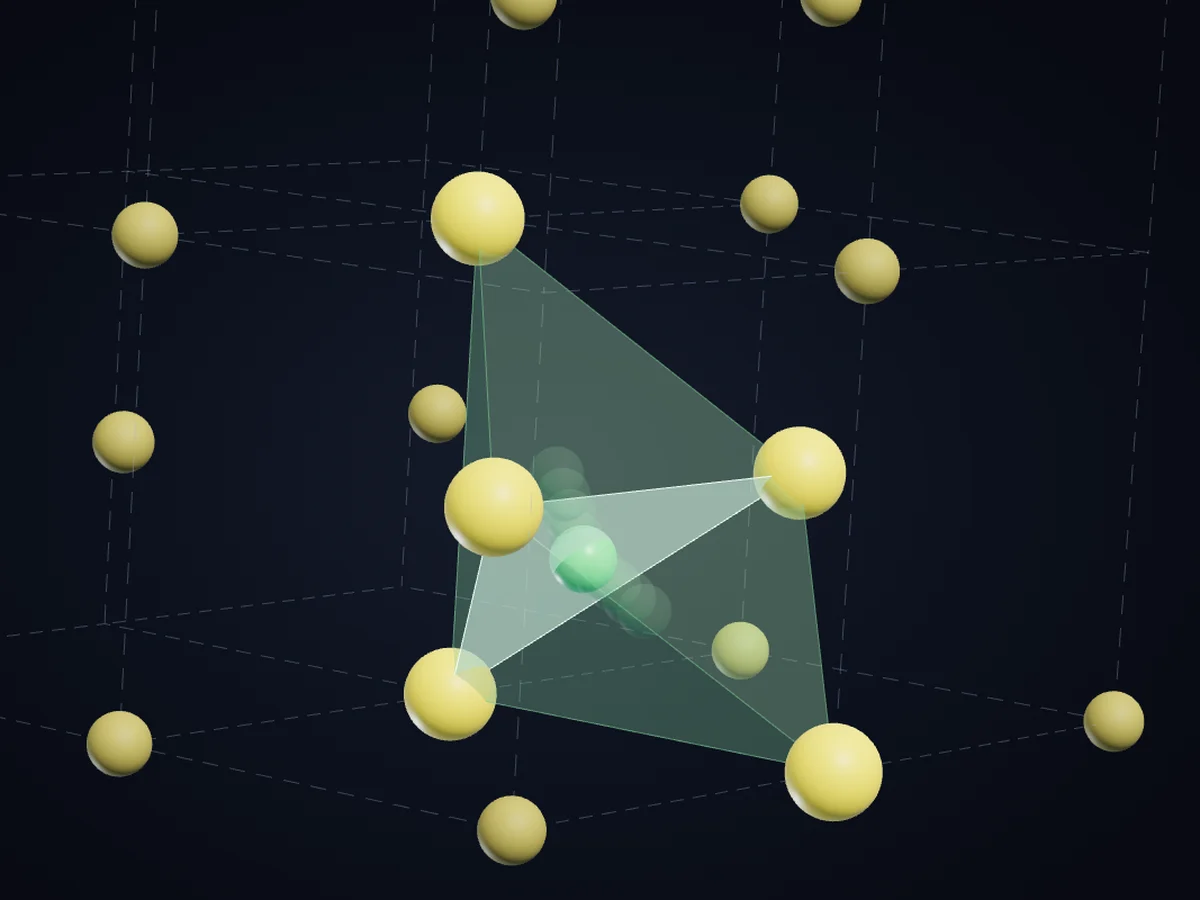
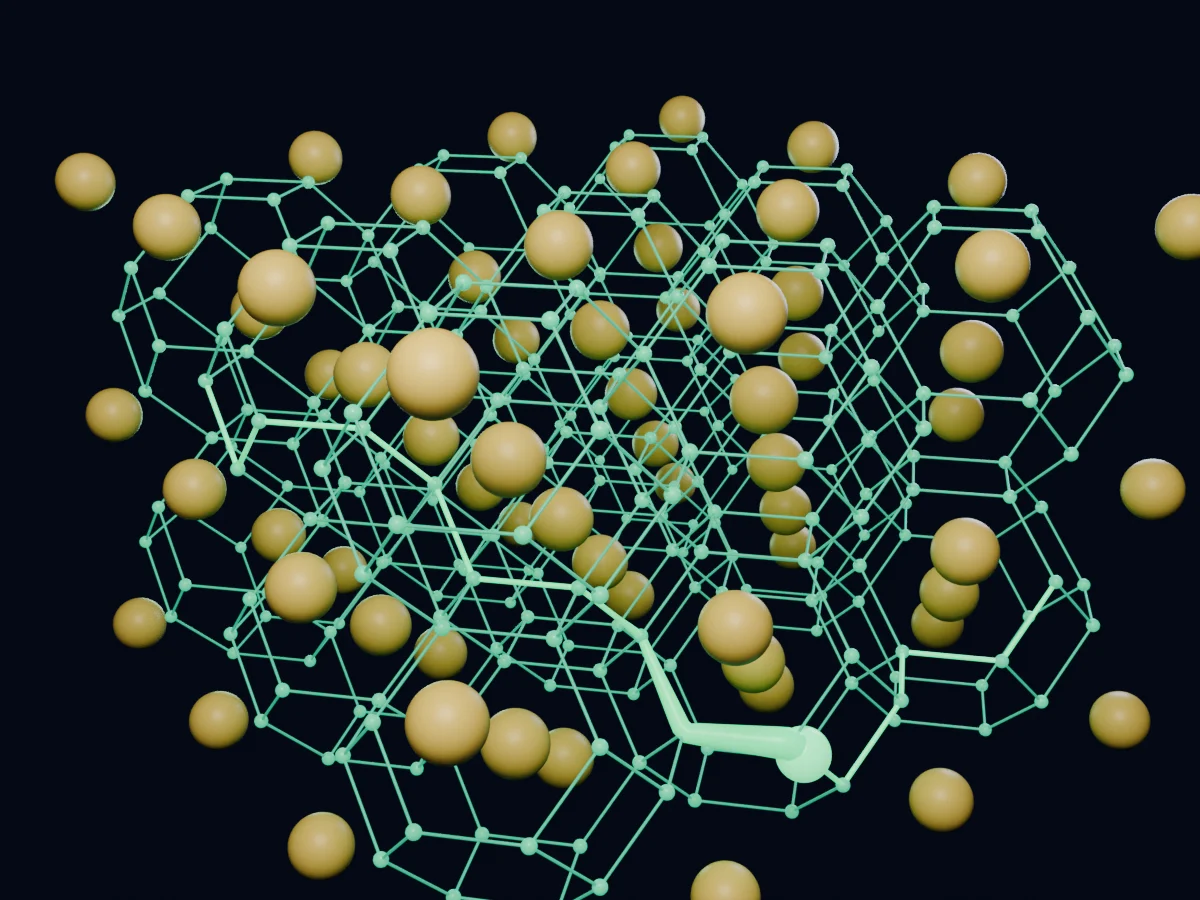
Give the bcc companion card its own look and separate the solid-electrolyte cards
The new card looked too much like "Lithium that moves together" directly
below it. It is now a Blender render of the bcc tetrahedral-site network
with one lithium streaking through it, kicker "Crystal design", and the
silicon nanowire card sits between the two. The card copy column can no
longer overflow its grid cell.

Claude-Session: https://claude.ai/code/session_01KDwobNjK2Qpa4VdtL2Mes2

diff --git a/site/styles.css b/site/styles.css
@@ -1,5 +1,5 @@
 :root{--black:#080a12;--white:#eef1fa;--accent:#7d9cff;--muted:#a3a6af;--sans:Arial,Helvetica,sans-serif;--gutter:clamp(24px,6.5vw,112px)}
-*{box-sizing:border-box}html{scroll-behavior:smooth}body{margin:0;background:var(--black);color:var(--white);font-family:var(--sans);font-size:16px;line-height:1.6;-webkit-font-smoothing:antialiased}h1,h2,h3,p,figure{margin:0}a{color:inherit;text-decoration:none}button{font:inherit;color:inherit;cursor:pointer}button,a,summary{-webkit-tap-highlight-color:transparent}a:focus-visible,button:focus-visible,summary:focus-visible{outline:2px solid #8aa4ff;outline-offset:7px}.skip{position:fixed;top:-100px;left:24px;background:var(--accent);color:var(--black);padding:12px;z-index:10}.skip:focus{top:12px}.site-header{position:absolute;top:0;left:var(--gutter);right:var(--gutter);height:112px;display:flex;justify-content:space-between;align-items:center;z-index:3;border-bottom:1px solid #ffffff25}.brand{font-size:34px;line-height:1;letter-spacing:-2px;font-weight:600}.brand span{font-weight:300}nav{display:flex;gap:36px;font-size:16px}nav a:hover{color:var(--accent)}.eyebrow{font-size:14px;font-weight:400;letter-spacing:.06em;line-height:1.6;color:var(--muted)}.text-link{display:inline-block;background:none;border:0;border-bottom:1px solid currentColor;border-radius:0;padding:0 0 7px;font-size:16px;text-align:left;line-height:1.6}.text-link:hover{color:#a5b8ff}.battery-feature{background:var(--white);color:#171920;padding:95px var(--gutter) 84px;scroll-margin-top:0}.section-intro{max-width:780px}.section-intro .eyebrow{color:#646978;margin-bottom:20px}h2{font-size:clamp(40px,4.7vw,74px);font-weight:400;line-height:1.08;letter-spacing:-.055em}.section-intro>p:last-child:not(.eyebrow){font-size:20px;line-height:1.6;color:#5e6473;margin-top:28px}.battery-figure{margin:56px 0 35px}.battery-figure svg{width:100%;height:auto;display:block;max-height:550px}.diagram-label{font:20px Arial,Helvetica,sans-serif;fill:#3c4355}.battery-figure figcaption{font-size:14px;color:#676c78;text-align:center;margin-top:16px}.feature-end{display:flex;justify-content:space-between;align-items:center;gap:40px;border-top:1px solid #b6bbc8;padding-top:30px}.feature-end p{font-size:20px;line-height:1.5;color:#484f62}.next-topics{padding:99px var(--gutter) 20px}.next-topics .section-intro{margin-bottom:65px}.next-topics .section-intro .eyebrow{color:#99a0b3}.topic-row{display:grid;grid-template-columns:1.22fr 1fr;gap:7%;align-items:center;border-top:1px solid #ffffff25;padding:60px 0}.topic-visual{min-width:0;position:relative;background:#111522}.topic-visual svg{display:block;width:100%;height:auto}.topic-visual figcaption{position:absolute;left:25px;bottom:19px;color:#878c9b;font-size:14px}.topic-copy .eyebrow{color:#969eb5;margin-bottom:22px}.topic-copy h3{font-size:clamp(34px,3.6vw,56px);font-weight:400;letter-spacing:-.05em;line-height:1.12}.topic-copy>p:not(.eyebrow){font-size:18px;line-height:1.6;color:#a1a6b5;margin-top:25px}.topic-copy .text-link{color:var(--accent);margin-top:32px}.plot-label{font:18px var(--fig-font,Arial,sans-serif);fill:#848ca3}.about{padding:100px var(--gutter) 110px;background:#10101c}.about-copy{max-width:750px}.about .eyebrow{margin-bottom:24px}.about-copy>p:not(.eyebrow){font-size:20px;line-height:1.7;color:#a4aab9;margin-top:28px;max-width:610px}.about details{border-top:1px solid #ffffff30;margin-top:40px;padding-top:24px;max-width:610px}.about summary{list-style:none;cursor:pointer;display:flex;justify-content:space-between;font-size:16px}.about summary::-webkit-details-marker{display:none}.about summary span{color:var(--accent);font-size:22px}.about details p{margin-top:20px;color:#a4aab9;font-size:16px;line-height:1.7}footer{display:flex;align-items:center;justify-content:space-between;gap:30px;padding:50px var(--gutter);font-size:14px;color:#979cab}footer .brand{color:var(--white)}dialog{background:var(--white);color:#181c28;border:none;width:min(640px,calc(100% - 40px));padding:55px;max-height:85svh;overflow:auto}dialog::backdrop{background:#000b;backdrop-filter:blur(7px)}.dialog-close{position:absolute;top:15px;right:20px;border:0;background:none;font-size:32px;line-height:1.2;padding:5px 8px}dialog .eyebrow{color:#5e6579}dialog h2{font-size:44px;margin-top:25px}dialog p:not(.eyebrow){font-size:17px;line-height:1.7;margin-top:25px;color:#495063}dialog ul{margin:25px 0 0;padding-left:20px}dialog li{margin-top:10px;color:#495063}dialog .dialog-note{border-top:1px solid #b4b9c5;padding-top:20px;font-size:14px}
+*{box-sizing:border-box}html{scroll-behavior:smooth}body{margin:0;background:var(--black);color:var(--white);font-family:var(--sans);font-size:16px;line-height:1.6;-webkit-font-smoothing:antialiased}h1,h2,h3,p,figure{margin:0}a{color:inherit;text-decoration:none}button{font:inherit;color:inherit;cursor:pointer}button,a,summary{-webkit-tap-highlight-color:transparent}a:focus-visible,button:focus-visible,summary:focus-visible{outline:2px solid #8aa4ff;outline-offset:7px}.skip{position:fixed;top:-100px;left:24px;background:var(--accent);color:var(--black);padding:12px;z-index:10}.skip:focus{top:12px}.site-header{position:absolute;top:0;left:var(--gutter);right:var(--gutter);height:112px;display:flex;justify-content:space-between;align-items:center;z-index:3;border-bottom:1px solid #ffffff25}.brand{font-size:34px;line-height:1;letter-spacing:-2px;font-weight:600}.brand span{font-weight:300}nav{display:flex;gap:36px;font-size:16px}nav a:hover{color:var(--accent)}.eyebrow{font-size:14px;font-weight:400;letter-spacing:.06em;line-height:1.6;color:var(--muted)}.text-link{display:inline-block;background:none;border:0;border-bottom:1px solid currentColor;border-radius:0;padding:0 0 7px;font-size:16px;text-align:left;line-height:1.6}.text-link:hover{color:#a5b8ff}.battery-feature{background:var(--white);color:#171920;padding:95px var(--gutter) 84px;scroll-margin-top:0}.section-intro{max-width:780px}.section-intro .eyebrow{color:#646978;margin-bottom:20px}h2{font-size:clamp(40px,4.7vw,74px);font-weight:400;line-height:1.08;letter-spacing:-.055em}.section-intro>p:last-child:not(.eyebrow){font-size:20px;line-height:1.6;color:#5e6473;margin-top:28px}.battery-figure{margin:56px 0 35px}.battery-figure svg{width:100%;height:auto;display:block;max-height:550px}.diagram-label{font:20px Arial,Helvetica,sans-serif;fill:#3c4355}.battery-figure figcaption{font-size:14px;color:#676c78;text-align:center;margin-top:16px}.feature-end{display:flex;justify-content:space-between;align-items:center;gap:40px;border-top:1px solid #b6bbc8;padding-top:30px}.feature-end p{font-size:20px;line-height:1.5;color:#484f62}.next-topics{padding:99px var(--gutter) 20px}.next-topics .section-intro{margin-bottom:65px}.next-topics .section-intro .eyebrow{color:#99a0b3}.topic-row{display:grid;grid-template-columns:1.22fr 1fr;gap:7%;align-items:center;border-top:1px solid #ffffff25;padding:60px 0}.topic-visual{min-width:0;position:relative;background:#111522}.topic-visual svg{display:block;width:100%;height:auto}.topic-visual figcaption{position:absolute;left:25px;bottom:19px;color:#878c9b;font-size:14px}.topic-copy{min-width:0;overflow-wrap:break-word}.topic-copy .eyebrow{color:#969eb5;margin-bottom:22px}.topic-copy h3{font-size:clamp(34px,3.6vw,56px);font-weight:400;letter-spacing:-.05em;line-height:1.12}.topic-copy>p:not(.eyebrow){font-size:18px;line-height:1.6;color:#a1a6b5;margin-top:25px}.topic-copy .text-link{color:var(--accent);margin-top:32px}.plot-label{font:18px var(--fig-font,Arial,sans-serif);fill:#848ca3}.about{padding:100px var(--gutter) 110px;background:#10101c}.about-copy{max-width:750px}.about .eyebrow{margin-bottom:24px}.about-copy>p:not(.eyebrow){font-size:20px;line-height:1.7;color:#a4aab9;margin-top:28px;max-width:610px}.about details{border-top:1px solid #ffffff30;margin-top:40px;padding-top:24px;max-width:610px}.about summary{list-style:none;cursor:pointer;display:flex;justify-content:space-between;font-size:16px}.about summary::-webkit-details-marker{display:none}.about summary span{color:var(--accent);font-size:22px}.about details p{margin-top:20px;color:#a4aab9;font-size:16px;line-height:1.7}footer{display:flex;align-items:center;justify-content:space-between;gap:30px;padding:50px var(--gutter);font-size:14px;color:#979cab}footer .brand{color:var(--white)}dialog{background:var(--white);color:#181c28;border:none;width:min(640px,calc(100% - 40px));padding:55px;max-height:85svh;overflow:auto}dialog::backdrop{background:#000b;backdrop-filter:blur(7px)}.dialog-close{position:absolute;top:15px;right:20px;border:0;background:none;font-size:32px;line-height:1.2;padding:5px 8px}dialog .eyebrow{color:#5e6579}dialog h2{font-size:44px;margin-top:25px}dialog p:not(.eyebrow){font-size:17px;line-height:1.7;margin-top:25px;color:#495063}dialog ul{margin:25px 0 0;padding-left:20px}dialog li{margin-top:10px;color:#495063}dialog .dialog-note{border-top:1px solid #b4b9c5;padding-top:20px;font-size:14px}
 
 @media(max-width:1000px){.topic-row{gap:6%;grid-template-columns:1fr 1fr}.feature-end p{font-size:18px}.topic-visual figcaption{font-size:12px;left:15px;bottom:12px}.diagram-label{font-size:22px}}
 @media(max-width:700px){.site-header{height:84px}.brand{font-size:30px}nav{font-size:15px;gap:24px}.battery-feature{padding-top:65px;padding-bottom:57px}.section-intro .eyebrow{font-size:12px;max-width:290px}.section-intro>p:last-child:not(.eyebrow){font-size:18px;margin-top:22px}h2{font-size:44px}.battery-figure{margin:42px -10px 27px}.battery-figure figcaption{font-size:12px;margin-top:10px}.diagram-label{font-size:27px}.feature-end{display:block;padding-top:25px}.feature-end p{font-size:18px}.feature-end .text-link{margin-top:25px}.next-topics{padding-top:65px}.next-topics .section-intro{margin-bottom:42px}.topic-row{display:block;padding:38px 0 45px}.topic-visual{margin-bottom:32px}.topic-visual figcaption{font-size:12px}.topic-copy .eyebrow{font-size:12px;margin-bottom:16px}.topic-copy h3{font-size:38px}.topic-copy>p:not(.eyebrow){font-size:18px;margin-top:18px}.topic-copy .text-link{margin-top:24px}.about{padding-top:65px;padding-bottom:65px}.about .eyebrow{font-size:12px}.about h2{font-size:43px}.about-copy>p:not(.eyebrow){font-size:18px;margin-top:25px}.about details{margin-top:30px}footer{flex-wrap:wrap;padding-top:36px;padding-bottom:36px;gap:25px}footer p{width:calc(100% - 110px);max-width:220px}footer>a:last-child{width:100%}dialog{padding:42px 28px}dialog h2{font-size:34px}}

diff --git a/site/index.html b/site/index.html
@@ -35,16 +35,16 @@
 <section class="next-topics" aria-labelledby="next-title">
 <div class="section-intro"><p class="eyebrow">BROWSE THE COLLECTION</p><h2 id="next-title">More visualizations.<br>More to explore.</h2></div>
 <article class="topic-row">
-<figure class="topic-visual anion-visual"><a href="anion-framework.html" aria-label="Explore Why some crystals let lithium fly" style="display:block;view-transition-name:anion-scene"><img src="assets/anion-framework/collection.webp" loading="lazy" decoding="async" width="1200" height="900" style="display:block;width:100%;height:auto" alt="A green lithium ion passing through the shared triangular face between two tetrahedral sites in a body-centred cubic lattice of yellow sulfur ions, rendered from the explorer’s model."></a></figure>
-<div class="topic-copy"><p class="eyebrow">PAPER COMPANION · SOLID ELECTROLYTES</p><h3>Why some crystals<br>let lithium fly</h3><p>See how the way sulfur packs decides whether lithium glides or has to squeeze.</p><a class="text-link" href="anion-framework.html">Explore the visualization</a></div>
-</article>
-<article class="topic-row">
-<figure class="topic-visual fast-ion-visual"><a href="fast-ion-diffusion.html" aria-label="Explore Lithium that moves together" style="display:block;view-transition-name:fast-ion-scene"><img src="assets/fast-ion-diffusion/collection.webp" loading="lazy" decoding="async" width="1200" height="900" style="display:block;width:100%;height:auto" alt="Five green lithium ions part-way through one collective hop along a chain of translucent oxygen cages in the garnet LLZO, rendered from the explorer’s model."></a></figure>
-<div class="topic-copy"><p class="eyebrow">PAPER COMPANION · SOLID ELECTROLYTES</p><h3>Lithium that<br>moves together</h3><p>See why five ions hopping at once face a lower barrier than one ion alone.</p><a class="text-link" href="fast-ion-diffusion.html">Explore the visualization</a></div>
+<figure class="topic-visual anion-visual"><a href="anion-framework.html" aria-label="Explore Why some crystals let lithium fly" style="display:block;view-transition-name:anion-scene"><img src="assets/anion-framework/collection.webp" loading="lazy" decoding="async" width="1200" height="900" style="display:block;width:100%;height:auto" alt="The web of linked tetrahedral sites inside a body-centred cubic sulfur lattice, with one lithium ion streaking along a path of face-sharing hops."></a></figure>
+<div class="topic-copy"><p class="eyebrow">PAPER COMPANION · CRYSTAL DESIGN</p><h3>Why some crystals<br>let lithium fly</h3><p>See how the way sulfur packs decides whether lithium glides or has to squeeze.</p><a class="text-link" href="anion-framework.html">Explore the visualization</a></div>
 </article>
 <article class="topic-row">
 <figure class="topic-visual silicon-visual"><a href="silicon-nanowire.html" aria-label="Explore How silicon breaks from within" style="display:block;view-transition-name:silicon-scene"><img src="assets/silicon-nanowire/collection.webp" loading="lazy" decoding="async" width="1200" height="900" style="display:block;width:100%;height:auto" alt="A swelling silicon nanowire cut open to reveal its tapered crystalline core, rendered from the explorer’s geometry."></a></figure>
 <div class="topic-copy"><p class="eyebrow">PAPER COMPANION · SILICON ANODES</p><h3>How silicon<br>breaks from within</h3><p>Follow a reaction front into the changing shape and stress inside a nanowire.</p><a class="text-link" href="silicon-nanowire.html">Explore the visualization</a></div>
+</article>
+<article class="topic-row">
+<figure class="topic-visual fast-ion-visual"><a href="fast-ion-diffusion.html" aria-label="Explore Lithium that moves together" style="display:block;view-transition-name:fast-ion-scene"><img src="assets/fast-ion-diffusion/collection.webp" loading="lazy" decoding="async" width="1200" height="900" style="display:block;width:100%;height:auto" alt="Five green lithium ions part-way through one collective hop along a chain of translucent oxygen cages in the garnet LLZO, rendered from the explorer’s model."></a></figure>
+<div class="topic-copy"><p class="eyebrow">PAPER COMPANION · SOLID ELECTROLYTES</p><h3>Lithium that<br>moves together</h3><p>See why five ions hopping at once face a lower barrier than one ion alone.</p><a class="text-link" href="fast-ion-diffusion.html">Explore the visualization</a></div>
 </article>
 <article class="topic-row">
 <figure class="topic-visual interwoven-visual"><a href="self-separating-battery.html" aria-label="Explore An interwoven battery" style="display:block;view-transition-name:interwoven-scene"><img src="assets/self-separating-battery/collection.webp" loading="lazy" decoding="async" width="1200" height="900" style="display:block;width:100%;height:auto" alt="A porous carbon volume with a blue cathode network and a thin warm-toned separating interphase, rendered from the explorer geometry."></a></figure>

diff --git a/blender/anion-framework/card.py b/blender/anion-framework/card.py
@@ -1,0 +1,164 @@
+# Homepage card for "Why some crystals let lithium fly" (Wang et al. 2015).
+# The bcc sulfur lattice with its tetrahedral-site network drawn as a lit web, and one lithium ion streaking through
+# it hop by hop: the picture is the paper's point, a percolating network of identical sites.
+# Run: python3.11 blender/anion-framework/card.py out.png [samples]   (pip install bpy; Cycles on CPU)
+import sys, math, itertools, collections
+import bpy
+from mathutils import Vector
+
+OUT = sys.argv[1] if len(sys.argv) > 1 else 'card.png'
+SAMPLES = int(sys.argv[2]) if len(sys.argv) > 2 else 96
+A = 40.0 ** (1 / 3) * 2 ** (1 / 3)          # bcc cell edge at 40 Å³ per sulfur (2 S per cell): 4.309 Å
+N = (3, 3, 2)                                # cells along a, b, c
+
+# ---- lattice -------------------------------------------------------------------------------------------------
+sulfur = set()
+for i, j, k in itertools.product(range(N[0] + 1), range(N[1] + 1), range(N[2] + 1)):
+    sulfur.add((i, j, k))
+    if i < N[0] and j < N[1] and k < N[2]:
+        sulfur.add((i + .5, j + .5, k + .5))
+# Tetrahedral sites: four on each cube face, at (0, 1/2, 1/4) and its equivalents.
+tsites = set()
+quarter = [(.5, .25), (.5, .75), (.25, .5), (.75, .5)]
+for i, j, k in itertools.product(range(N[0] + 1), range(N[1] + 1), range(N[2] + 1)):
+    for u, v in quarter:
+        for p in ((i, j + u, k + v), (i + u, j, k + v), (i + u, j + v, k)):
+            if all(0 <= p[d] <= N[d] for d in range(3)):
+                tsites.add(tuple(round(x, 3) for x in p))
+T = [Vector(p) * A for p in sorted(tsites)]
+S = [Vector(p) * A for p in sorted(sulfur)]
+dTT = A * math.sqrt(2) / 4                   # face-sharing T–T distance, 1.52 Å
+links = [(i, j) for i, j in itertools.combinations(range(len(T)), 2) if abs((T[i] - T[j]).length - dTT) < .05]
+
+# A long route through the network: the farthest pair by hops, found with BFS from one corner site.
+adj = collections.defaultdict(list)
+for i, j in links:
+    adj[i].append(j); adj[j].append(i)
+def bfs(src):
+    prev = {src: None}; q = collections.deque([src])
+    while q:
+        n = q.popleft()
+        for m in adj[n]:
+            if m not in prev:
+                prev[m] = n; q.append(m)
+    return prev
+CENTRE = Vector((N[0] * A / 2, N[1] * A / 2, N[2] * A / 2))
+VIEW = Vector((-0.52, -0.78, 0.36)).normalized()          # from the block towards the camera
+RIGHT = VIEW.cross(Vector((0, 0, 1))).normalized() * -1; UP = RIGHT.cross(VIEW) * -1
+near = lambda n: (T[n] - CENTRE).dot(VIEW)
+front = [n for n in range(len(T)) if near(n) > 2.0]
+start = min(front, key=lambda n: (T[n] - CENTRE).dot(RIGHT) * 1.0 - (T[n] - CENTRE).dot(UP) * 0.6)
+prev = bfs(start)
+end = max(front, key=lambda n: (T[n] - CENTRE).dot(RIGHT) - (T[n] - CENTRE).dot(UP) * 0.3)
+route = []
+n = end
+while n is not None:
+    route.append(n); n = prev[n]
+route.reverse()
+
+# ---- scene ---------------------------------------------------------------------------------------------------
+bpy.ops.wm.read_factory_settings(use_empty=True)
+sc = bpy.context.scene
+sc.render.engine = 'CYCLES'; sc.cycles.device = 'CPU'; sc.cycles.samples = SAMPLES; sc.cycles.use_denoising = True
+sc.render.resolution_x, sc.render.resolution_y = 1200, 900
+import os; sc.render.resolution_percentage = int(os.environ.get('PCT', 100))
+sc.render.film_transparent = False
+sc.view_settings.view_transform = 'AgX'; sc.view_settings.look = 'AgX - Medium High Contrast'
+world = bpy.data.worlds.new('w'); sc.world = world; world.use_nodes = True
+bg = world.node_tree.nodes['Background']; bg.inputs[0].default_value = (0.006, 0.008, 0.018, 1); bg.inputs[1].default_value = 1
+
+def material(name, base, rough=.35, emit=None, strength=0.0, alpha=1.0):
+    m = bpy.data.materials.new(name); m.use_nodes = True
+    b = m.node_tree.nodes['Principled BSDF']
+    b.inputs['Base Color'].default_value = (*base, 1); b.inputs['Roughness'].default_value = rough
+    if emit:
+        b.inputs['Emission Color'].default_value = (*emit, 1); b.inputs['Emission Strength'].default_value = strength
+    if alpha < 1:
+        b.inputs['Alpha'].default_value = alpha
+    return m
+
+m_s = material('sulfur', (0.85, 0.66, 0.16), rough=.42)
+m_t = material('tsite', (0.08, 0.55, 0.32), rough=.3, emit=(0.05, 0.9, 0.45), strength=0.6)
+m_link = material('link', (0.05, 0.4, 0.26), rough=.45, emit=(0.05, 0.85, 0.45), strength=0.45)
+m_route = material('route', (0.1, 0.85, 0.4), rough=.3, emit=(0.05, 1.0, 0.35), strength=1.0)
+
+_meshes = {}
+def _template(kind, seg):
+    key = (kind, seg)
+    if key not in _meshes:
+        if kind == 'sphere':
+            bpy.ops.mesh.primitive_uv_sphere_add(radius=1, segments=seg, ring_count=seg // 2)
+        else:
+            bpy.ops.mesh.primitive_cylinder_add(radius=1, depth=1, vertices=seg)
+        o = bpy.context.object; bpy.ops.object.shade_smooth(); _meshes[key] = o.data; bpy.data.objects.remove(o)
+    return _meshes[key]
+# Linked duplicates of one mesh per shape: thousands of objects without thousands of meshes.
+def place(kind, seg, mat, loc, scale, rot=None):
+    o = bpy.data.objects.new(kind, _template(kind, seg)); o.location = loc; o.scale = scale
+    o.material_slots and None
+    o.active_material = None
+    if rot is not None:
+        o.rotation_mode = 'QUATERNION'; o.rotation_quaternion = rot
+    o.data.materials.clear() if False else None
+    sc.collection.objects.link(o); o.material_slots  # ensure slots
+    if not o.data.materials:
+        o.data.materials.append(None)
+    o.material_slots[0].link = 'OBJECT'; o.material_slots[0].material = mat
+    return o
+def sphere(p, r, mat, seg=48):
+    return place('sphere', seg, mat, p, (r, r, r))
+def rod(a, b, r, mat):
+    d = b - a
+    return place('rod', 12, mat, (a + b) / 2, (r, r, d.length), Vector((0, 0, 1)).rotation_difference(d))
+
+# Blender is z-up: crystal c goes to z.
+for p in S: sphere(p, 0.5, m_s)
+for p in T: sphere(p, 0.11, m_t, seg=16)
+on_route = {tuple(sorted(e)) for e in zip(route, route[1:])}
+for i, j in links:
+    if tuple(sorted((i, j))) not in on_route:
+        rod(T[i], T[j], 0.022, m_link)
+for i, j in zip(route, route[1:]):
+    rod(T[i], T[j], 0.04, m_route)
+
+# The lithium ion two-thirds along the route, with a fading comet of earlier positions behind it.
+pts = [T[n] for n in route]
+lens = [0] + list(itertools.accumulate((b - a).length for a, b in zip(pts, pts[1:])))
+def along(s):
+    s = max(0, min(lens[-1], s))
+    for k in range(len(pts) - 1):
+        if lens[k + 1] >= s:
+            u = (s - lens[k]) / max(1e-6, lens[k + 1] - lens[k]); return pts[k].lerp(pts[k + 1], u)
+    return pts[-1]
+head = lens[-1] * 0.66
+li = sphere(along(head), 0.4, material('li', (0.2, 0.9, 0.45), rough=.18, emit=(0.1, 1.0, 0.4), strength=1.1))
+# The trail: one tube along the last stretch of the route, tapering to nothing behind the ion.
+cu = bpy.data.curves.new('trail', 'CURVE'); cu.dimensions = '3D'; cu.bevel_depth = 0.26; cu.bevel_resolution = 6
+sp = cu.splines.new('POLY'); K = 40; sp.points.add(K - 1)
+for k in range(K):
+    u = k / (K - 1); q = along(head - 5.5 * (1 - u))
+    sp.points[k].co = (q.x, q.y, q.z, 1); sp.points[k].radius = u ** 1.4
+trail = bpy.data.objects.new('trail', cu); sc.collection.objects.link(trail)
+trail.data.materials.append(material('trailm', (0.1, 0.85, 0.4), rough=.3, emit=(0.05, 1.0, 0.35), strength=0.9))
+
+# ---- light and camera ----------------------------------------------------------------------------------------
+centre = sum(S, Vector()) / len(S)
+def light(kind, loc, energy, color, size=4):
+    d = bpy.data.lights.new(kind + str(loc), kind); d.energy = energy; d.color = color
+    if kind == 'AREA': d.size = size
+    o = bpy.data.objects.new(d.name, d); o.location = loc; sc.collection.objects.link(o)
+    o.rotation_mode = 'QUATERNION'; o.rotation_quaternion = (centre - Vector(loc)).to_track_quat('-Z', 'Y'); return o
+light('AREA', centre + Vector((-14, -18, 22)), 9000, (1.0, 0.93, 0.82), 14)
+light('AREA', centre + Vector((20, 6, 4)), 2600, (0.55, 0.65, 1.0), 10)
+light('AREA', centre + Vector((4, 22, -6)), 1200, (0.4, 1.0, 0.7), 8)
+
+cam_d = bpy.data.cameras.new('cam'); cam_d.lens = 45
+cam = bpy.data.objects.new('cam', cam_d); sc.collection.objects.link(cam); sc.camera = cam
+focus = li.location.copy()
+cam.location = CENTRE + VIEW * 26
+cam.rotation_mode = 'QUATERNION'; cam.rotation_quaternion = (CENTRE - cam.location).to_track_quat('-Z', 'Y')
+cam_d.dof.use_dof = True; cam_d.dof.focus_distance = (focus - cam.location).length; cam_d.dof.aperture_fstop = 1.8
+
+sc.render.filepath = OUT
+bpy.ops.render.render(write_still=True)
+print('T sites', len(T), 'links', len(links), 'route hops', len(route) - 1, '→', OUT)

diff --git a/DESIGN_AND_PRODUCT_HANDOFF.md b/DESIGN_AND_PRODUCT_HANDOFF.md
@@ -4,6 +4,12 @@
 
 This is the living product/design guide, not only a historical handoff. At the user's explicit request (3 October 2026), record every new critique, preference and improvement here in the same work session. Fold durable principles into the guide, date concrete examples, and distinguish requested work from verified implementation. Read this section before future design or interaction changes. Earlier implementation/status claims below describe their original handoff and may be superseded by current code and verification reports.
 
+### 8 October 2026 — homepage cards must not look alike back to back
+
+- **Critique:** after the "Why some crystals let lithium fly" card went live, Marcky said the collection "gets cluttered with these looking too similar back to back". It sat directly above "Lithium that moves together", and both used yellow sulfur, green lithium, pale green polyhedra on dark navy, and the same "Paper companion · Solid electrolytes" kicker. In the same screenshot the new card's subtitle ran past the right edge of the window. This could not be reproduced in Chromium at 800–1414 px, so it may be browser zoom or the screenshot crop.
+- **Principle:** each card in the collection needs its own visual identity, with a different composition and dominant form and not only different words. Two cards for neighbouring topics never sit next to each other. A card image is designed for the card rather than taken as a screenshot of the explorer's default view, and it still shows that paper's main idea.
+- **Applied (draft, 8 October):** the bcc card is now a Blender render of the bcc tetrahedral-site network, shown as a lattice of cages, with one lithium streak along a chain of face-sharing hops. Its kicker reads "Crystal design". The card order is now bcc companion, silicon nanowires, then fast ion diffusion. The card text column also has `min-width:0` and wraps long words, so it cannot overflow.
+
 ### 7 October 2026 — labels must be calm in motion and few (supersedes parts of 6 October)
 
 Marcky's critique of the first labelled version: "you did not do a great job, the labels appear glitchy upon motion and slide all over the place. needs to be integrated much more seamlessly, and without making the figures too busy".

diff --git a/blender/README.md b/blender/README.md
@@ -1,0 +1,4 @@
+
+## anion-framework/card.py
+
+Homepage card for "Why some crystals let lithium fly": the bcc tetrahedral-site network (the cage web) with one lithium streaking along face-sharing hops. `python3.11 blender/anion-framework/card.py out.png 96` renders 1200×900 in about a minute on CPU (`PCT=50` and 16 samples for a draft). Convert to `site/assets/anion-framework/collection.webp`.
